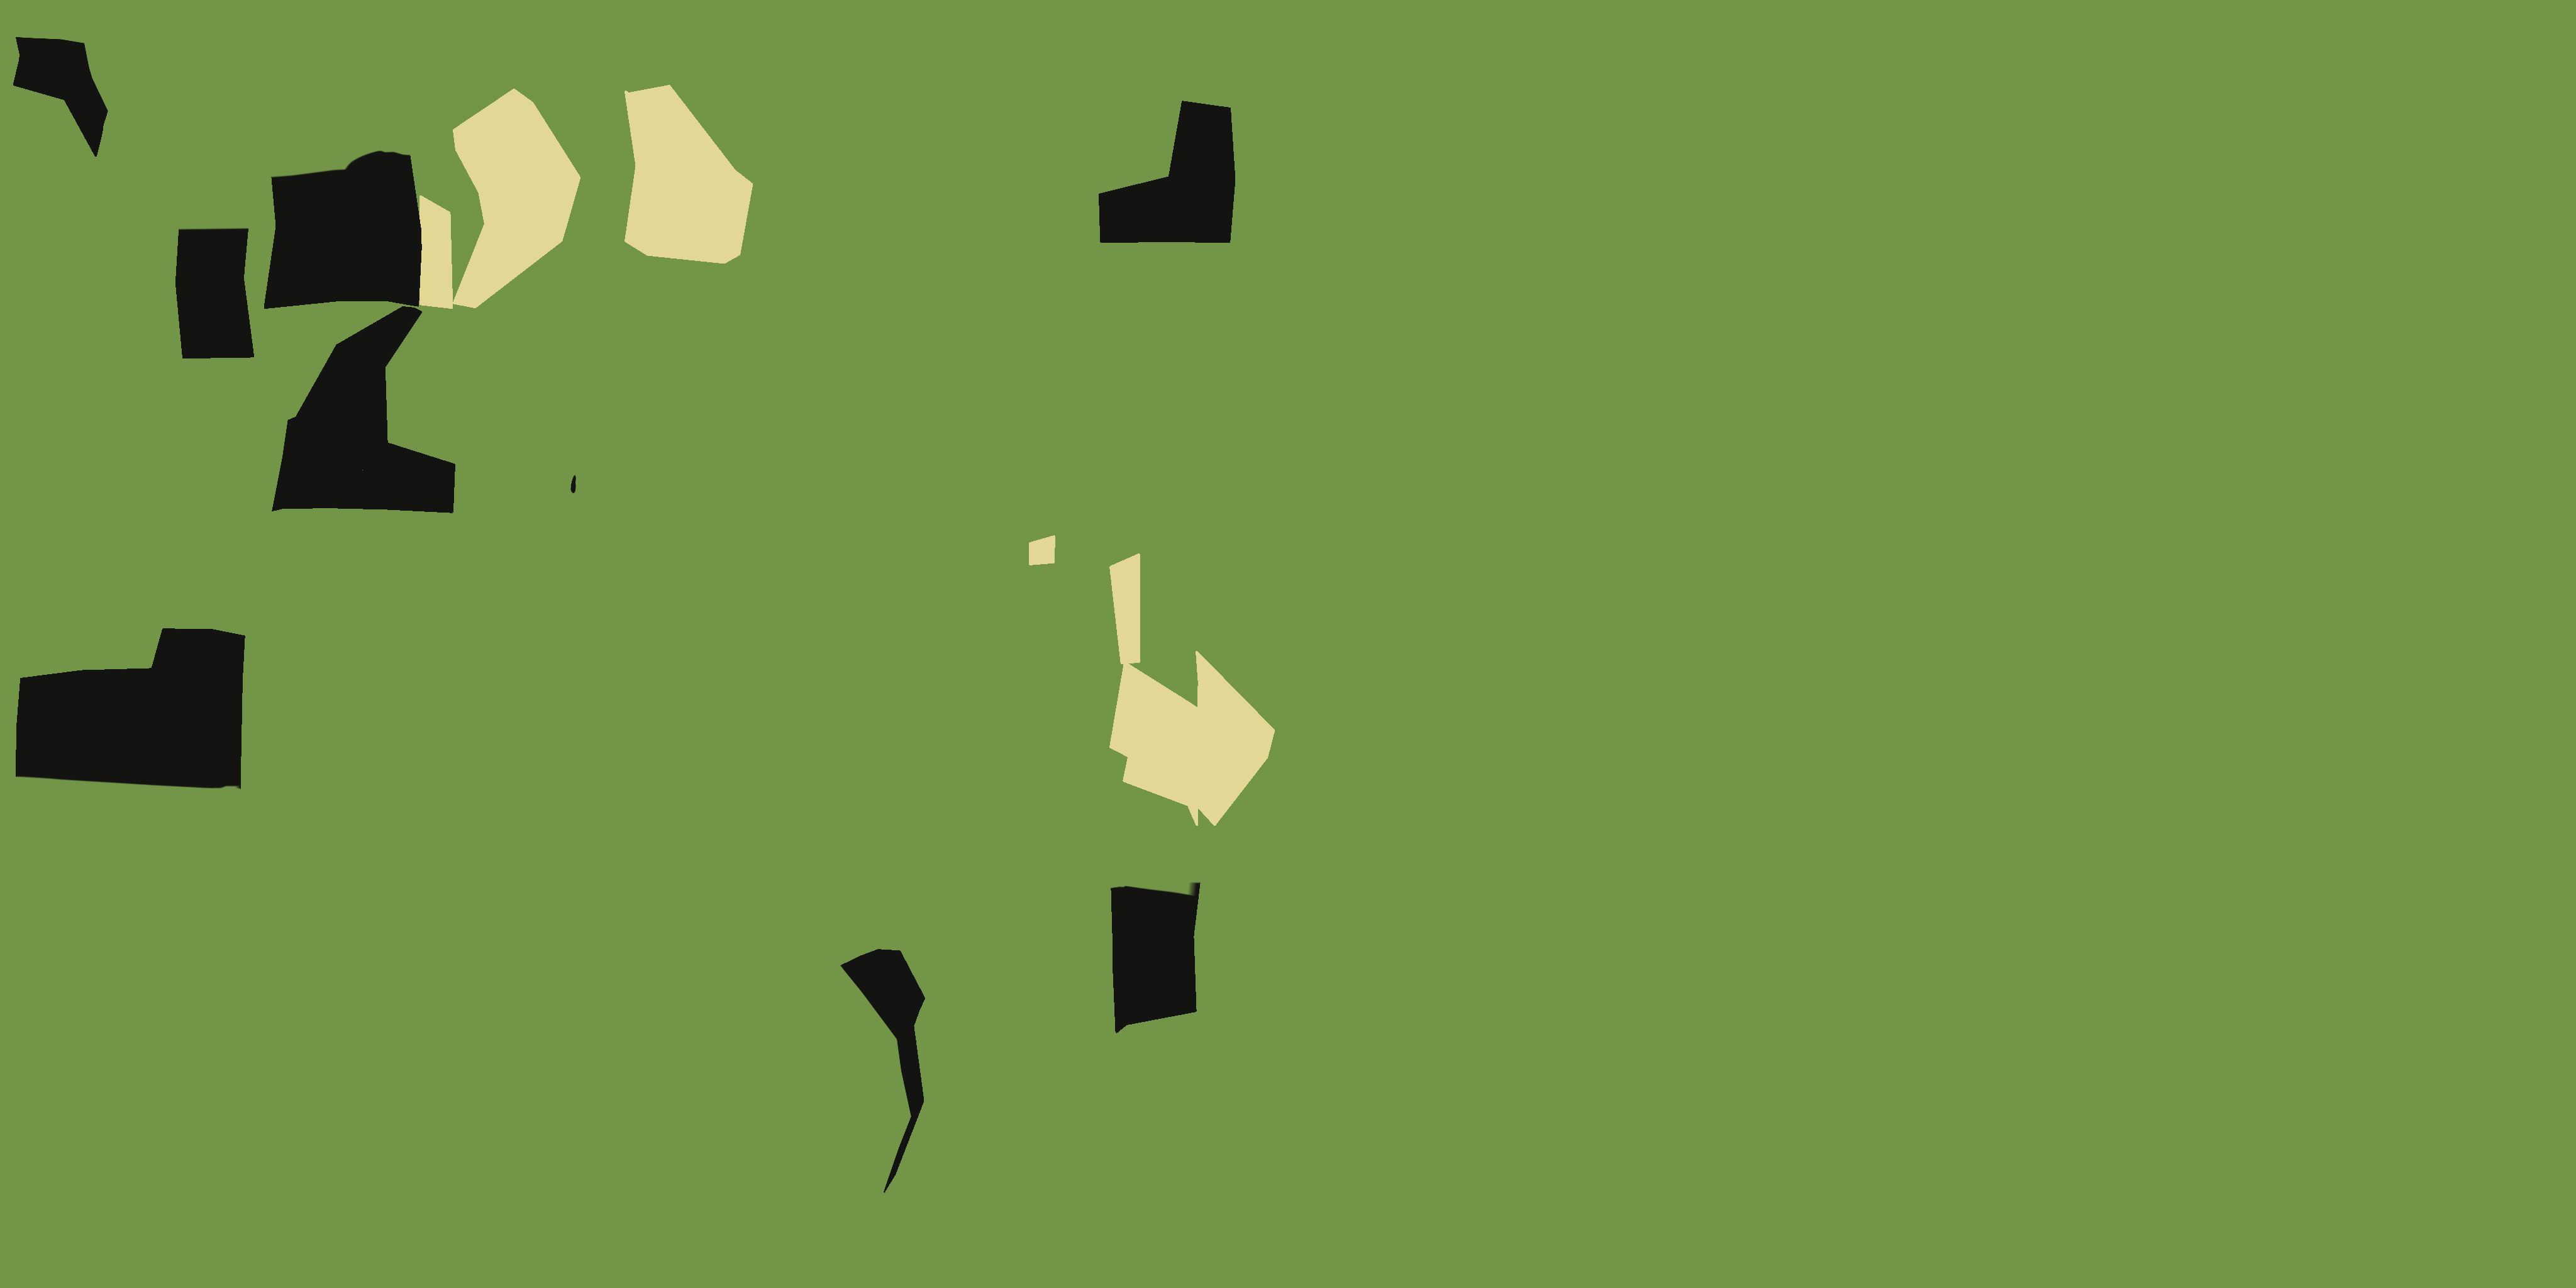
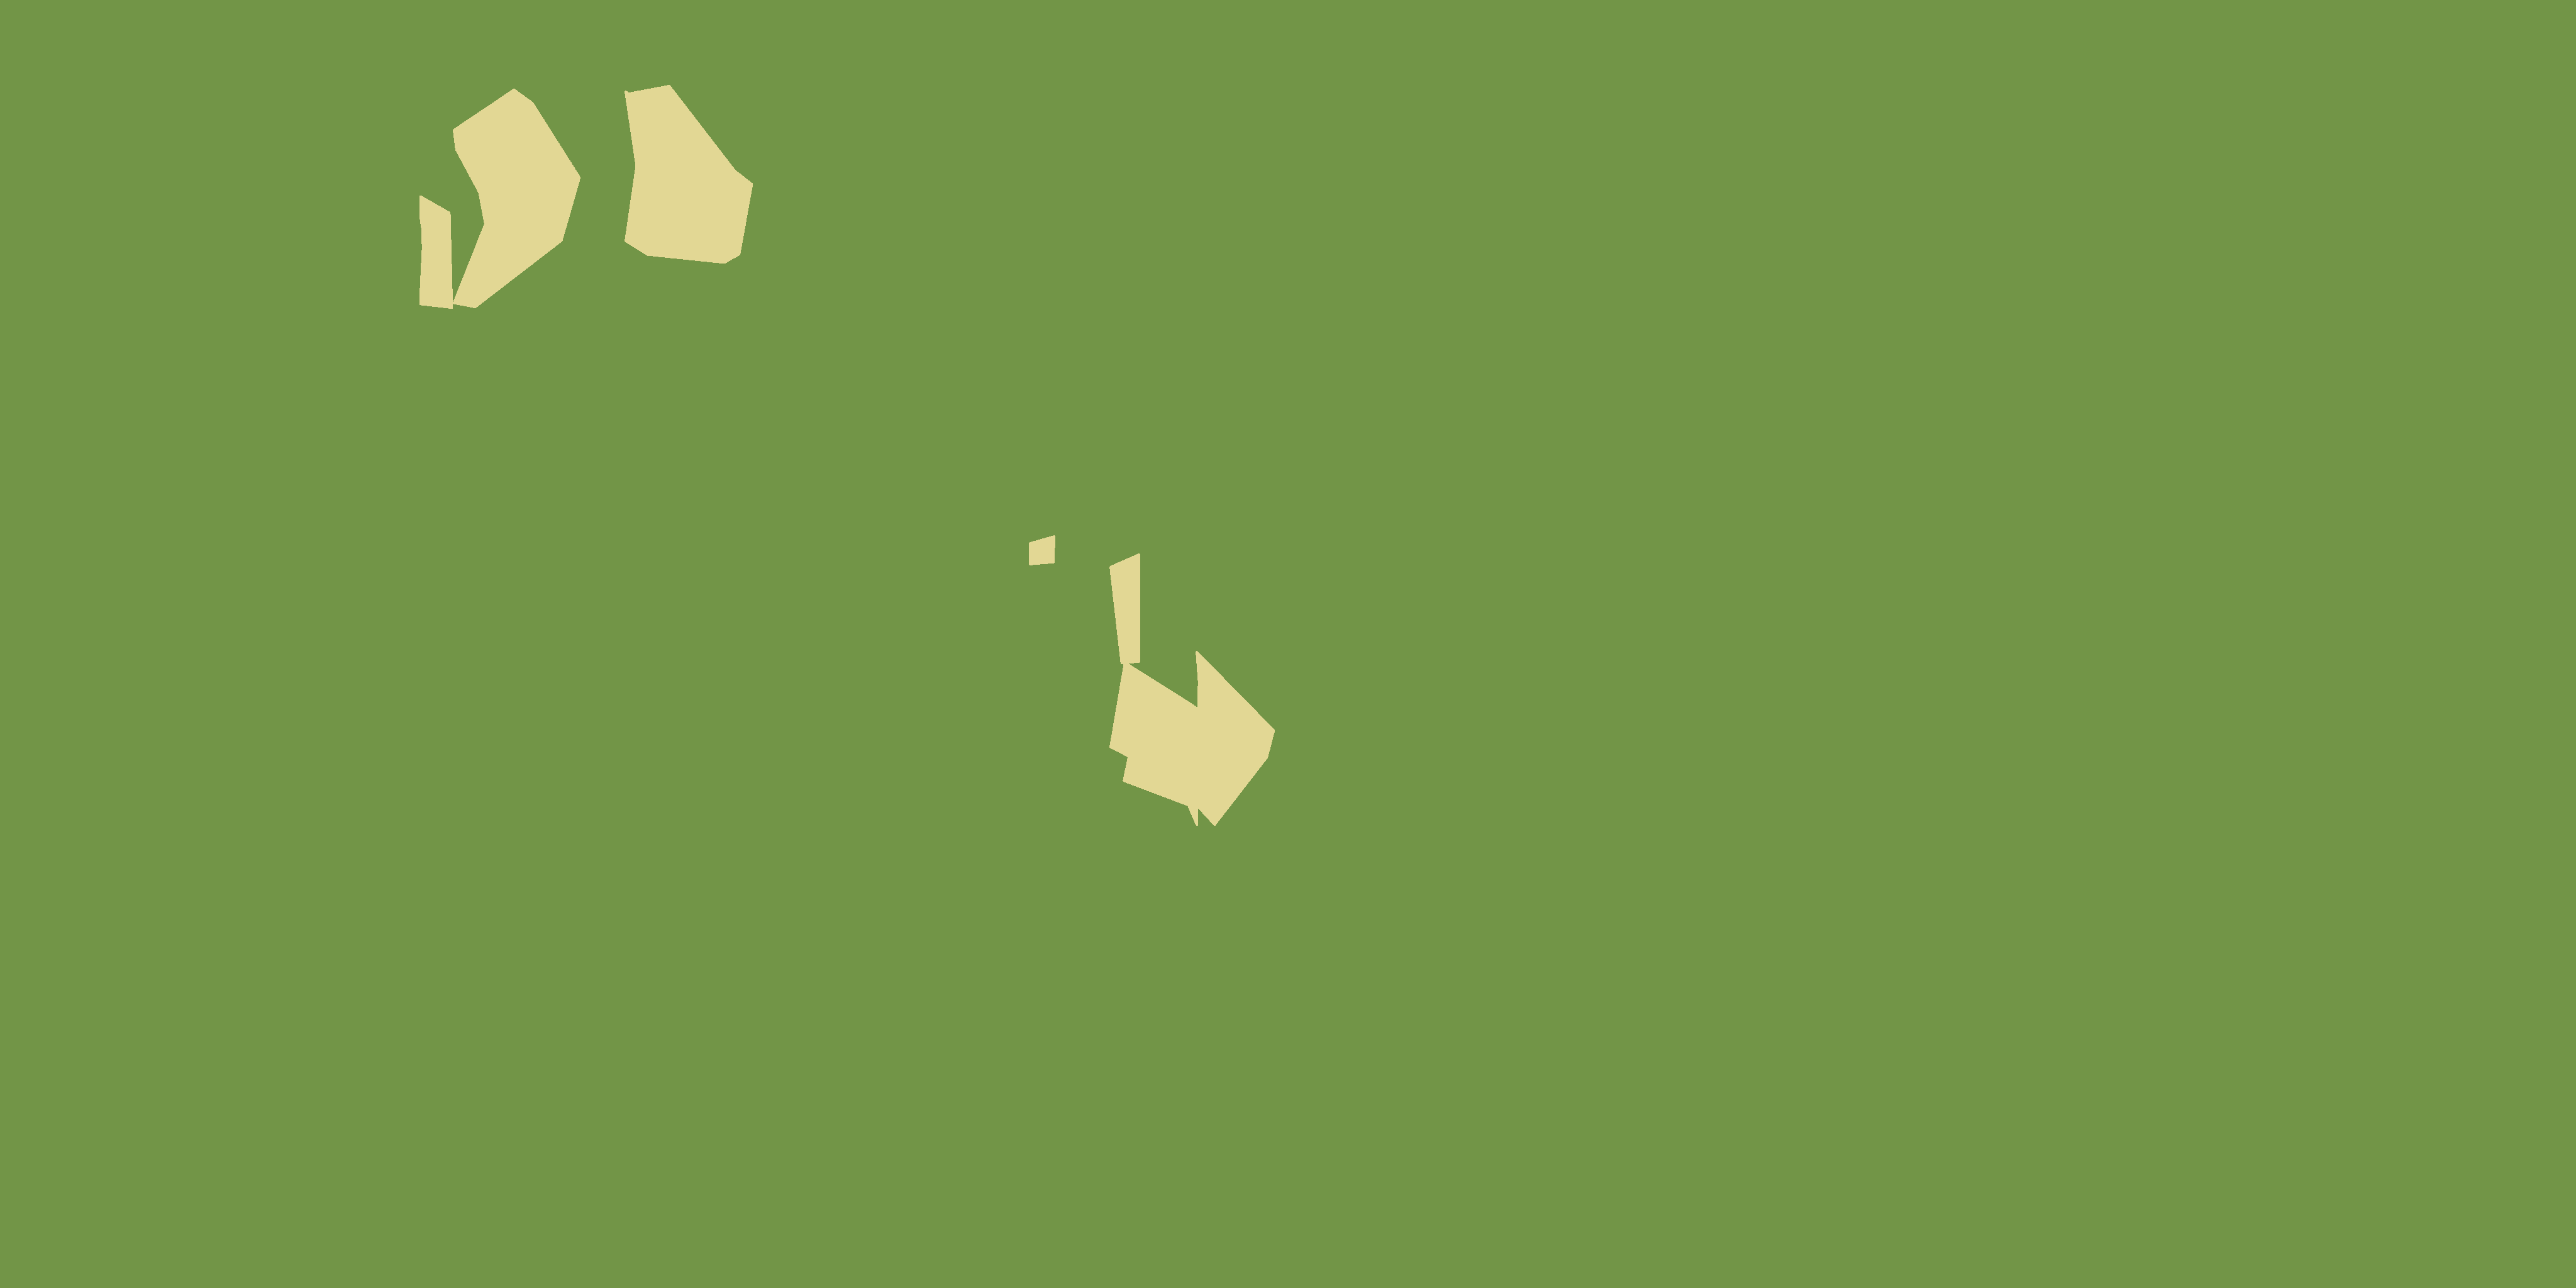
Fixed root motion

diff --git a/Assets/Scripts/Animation/DeterministicNetworkAnimator.cs b/Assets/Scripts/Animation/DeterministicNetworkAnimator.cs
@@ -19,8 +19,8 @@ public class DeterministicNetworkAnimator
     private List<AnimationClipPlayable> _clipPlayables = new List<AnimationClipPlayable>();
     private bool _isInitialized = false;
 
-    public Vector3 RootMotionHorizontalDelta { get; private set; }
-    public float RootMotionVerticalDelta { get; private set; }
+    public Vector3 RootMotionDelta { get; private set; } ///root motion difference from last fixedUpdate.
+    public Vector3 RootMotionRaw { get; private set; } ///root motion raw local position in relation to armature base
     public Quaternion RootMotionRotation { get; private set; }
 
 
@@ -39,10 +39,12 @@ public class DeterministicNetworkAnimator
 
 
 
-    public DeterministicNetworkAnimator(Animator animator, List<AnimationClip> clips, AnimationClip tPoseClip, Transform armatureRoot, Transform armatureTrans, bool zIsUp)
+    public DeterministicNetworkAnimator(Animator animator, List<AnimationClip> clips, AnimationClip tPoseClip, Transform armatureRoot, Transform armatureTrans, AnimLocalAxis animLocalForwardAxis, AnimLocalAxis animLocalUpAxis)
     {
+        _tPoseForwardAxis = animLocalForwardAxis;
+        _tPoseUpAxis = animLocalUpAxis;
         _armatureTrans = armatureTrans;
-        _zIsUp = zIsUp;
+        //_zIsUp = zIsUp;
          _animator = animator;
         _armatureRoot = armatureRoot;
         if (animator == null || clips == null || clips.Count == 0)
@@ -87,21 +89,18 @@ public class DeterministicNetworkAnimator
 
             Quaternion parentWorld = _armatureTrans.rotation;
 
-            Vector3 tposeFwdWorld = parentWorld * (_tPoseLocalRot * Axis(_tPoseForwardAxis));
-            Vector3 tposeUpWorld = parentWorld * (_tPoseLocalRot * Axis(_tPoseUpAxis));
-            Quaternion qTPoseWorld = Quaternion.LookRotation( Vector3.ProjectOnPlane(tposeFwdWorld, Vector3.zero),tposeUpWorld);
-
-            _qTPoseWorld = qTPoseWorld;
+            // This is the pelvis/root *world* rotation when in T-pose:
+            _qTPoseWorld = parentWorld * _tPoseLocalRot;
 
             tPoseGraph.Destroy();
 
-            if (zIsUp)
+            if (_tPoseUpAxis == AnimLocalAxis.Z)
             {
-                _prevRootMotionPos = new Vector3(_tPoseLocalPos.x, 0, _tPoseLocalPos.y);
+                _prevRootMotionPos = new Vector3(_tPoseLocalPos.x, 0, _tPoseLocalPos.z);
             }
             else
             {
-                _prevRootMotionPos = new Vector3(_tPoseLocalPos.x, 0, _tPoseLocalPos.z);
+                _prevRootMotionPos = new Vector3(_tPoseLocalPos.x, 0, _tPoseLocalPos.y);
             }
                
         }
@@ -138,37 +137,21 @@ public class DeterministicNetworkAnimator
 
         Vector3 currentRootPos = _armatureRoot.localPosition;
         
-        Vector3 currentHorizontalPos;
-        if (_zIsUp)
+        if (_tPoseUpAxis == AnimLocalAxis.Z)
         {
-            RootMotionVerticalDelta = (currentRootPos.z - localRootPosInTPose.z) * _armatureTrans.transform.localScale.z;
-            currentHorizontalPos = new Vector3(currentRootPos.x, 0, currentRootPos.y);
+            RootMotionRaw = new Vector3(_armatureRoot.localPosition.x, _armatureRoot.localPosition.z, _armatureRoot.localPosition.y) * _armatureTrans.localScale.x;
+            Vector3 rootDelta = _armatureRoot.localPosition - _prevRootMotionPos;
+            RootMotionDelta = new Vector3(rootDelta.x , rootDelta.z, rootDelta.y) * _armatureTrans.localScale.x;
+        
         }
         else
         {
-            RootMotionVerticalDelta = (currentRootPos.y - localRootPosInTPose.y) * _armatureTrans.transform.localScale.y;
-            currentHorizontalPos = new Vector3(currentRootPos.x, 0, currentRootPos.z);
+            RootMotionRaw = new Vector3(_armatureRoot.localPosition.x, _armatureRoot.localPosition.y, _armatureRoot.localPosition.z) * _armatureTrans.localScale.x;
+            Vector3 rootDelta = _armatureRoot.localPosition - _prevRootMotionPos;
+            RootMotionDelta = new Vector3(rootDelta.x, rootDelta.y, rootDelta.z) * _armatureTrans.localScale.x;
         }
 
-       
-        Vector3 deltaPos = currentHorizontalPos - _prevRootMotionPos;
-
-        // C. Cache horizontal position for next tick
-        _prevRootMotionPos = currentHorizontalPos;
-
-        // D. Guard against teleports
-        if (deltaPos.magnitude > 1.0f)
-        {
-            deltaPos = Vector3.zero;
-        }
-
-        RootMotionHorizontalDelta = deltaPos * _armatureTrans.transform.localScale.y;
-
-        //rotation
-
-        //Quaternion currentLocalRot = _armatureRoot.localRotation;
-        //Quaternion deltaRotation = currentLocalRot * Quaternion.Inverse(_tPoseLocalRot);
-        //RootMotionRotation = deltaRotation;
+        _prevRootMotionPos = _armatureRoot.localPosition;
 
         Quaternion currentLocalRot = _armatureRoot.localRotation;
         Quaternion deltaLocalFromTPose = currentLocalRot * Quaternion.Inverse(_tPoseLocalRot);
@@ -185,20 +168,20 @@ public class DeterministicNetworkAnimator
         }
     }
 
-    public enum LocalAxis { X, Y, Z, NegX, NegY, NegZ }
-    private static Vector3 Axis(LocalAxis a) => a switch
+    
+    private static Vector3 Axis(AnimLocalAxis a) => a switch
     {
-        LocalAxis.X => Vector3.right,
-        LocalAxis.Y => Vector3.up,
-        LocalAxis.Z => Vector3.forward,
-        LocalAxis.NegX => -Vector3.right,
-        LocalAxis.NegY => -Vector3.up,
-        LocalAxis.NegZ => -Vector3.forward
+        AnimLocalAxis.X => Vector3.right,
+        AnimLocalAxis.Y => Vector3.up,
+        AnimLocalAxis.Z => Vector3.forward,
+        AnimLocalAxis.NegX => -Vector3.right,
+        AnimLocalAxis.NegY => -Vector3.up,
+        AnimLocalAxis.NegZ => -Vector3.forward
     };
 
-    [SerializeField] private LocalAxis _tPoseForwardAxis = LocalAxis.Z;
-    [SerializeField] private LocalAxis _tPoseUpAxis = LocalAxis.Y;
+    [SerializeField] private AnimLocalAxis _tPoseForwardAxis = AnimLocalAxis.Z;
+    [SerializeField] private AnimLocalAxis _tPoseUpAxis = AnimLocalAxis.Y;
 
     public Quaternion WorldDeltaFromTPose { get; private set; }
 }
-
+public enum AnimLocalAxis { X, Y, Z, NegX, NegY, NegZ }

diff --git a/Assets/Scripts/Animation/AnimationStateController.cs b/Assets/Scripts/Animation/AnimationStateController.cs
@@ -64,9 +64,10 @@ public class AnimationStateController : NetworkBehaviour
     public Transform armatureRoot;
 
     [Header("Needed for blender imports Z = UP")]
-    public bool zIsUp = true;
-    public float RootMotionOffsetFromOrigin => _detAnimator.RootMotionVerticalDelta;
-    public Vector2 RootMotionDeltaThisUpdate => _detAnimator.RootMotionHorizontalDelta;
+    public AnimLocalAxis armatureLocalUpAxis = AnimLocalAxis.Y;
+    public AnimLocalAxis armatureLocalForwardAxis = AnimLocalAxis.Z;
+    public Vector3 RootMotionRaw => _detAnimator.RootMotionRaw;
+    public Vector3 RootMotionDelta => _detAnimator.RootMotionDelta;
     public Quaternion RootMotionRotation => _detAnimator?.RootMotionRotation ?? Quaternion.identity;
 
     public Quaternion WorldDeltaFromTPose => _detAnimator?.WorldDeltaFromTPose ?? Quaternion.identity;
@@ -85,7 +86,7 @@ public class AnimationStateController : NetworkBehaviour
         BuildRuntimeClips();
 
         List<AnimationClip> clips = _runtimeClipsConfig.Select(config => config.Clip).ToList();
-        _detAnimator = new DeterministicNetworkAnimator(_animator, clips, _tPoseClip, armatureRoot, armatureRoot.parent, zIsUp);
+        _detAnimator = new DeterministicNetworkAnimator(_animator, clips, _tPoseClip, armatureRoot, armatureRoot.parent, armatureLocalForwardAxis, armatureLocalUpAxis);
 
         if (Object.HasStateAuthority)
         {

diff --git a/Assets/Scripts/EnemyAi/NPCScripts/NPCMonos/NPCMovementController.cs b/Assets/Scripts/EnemyAi/NPCScripts/NPCMonos/NPCMovementController.cs
@@ -46,7 +46,7 @@ public class NPCMovementController : MonoBehaviour
 
     public void RotateTowardsPoint(Vector3 point)
     {
-        var dir = point - (controller.coreRB.position - Vector3.up * controller.rideHeight);
+        var dir = point - (controller.coreRB.position - Vector3.up * controller.animStateController.RootMotionRaw.y);
         dir.y = 0;
         if (dir != Vector3.zero)
         {